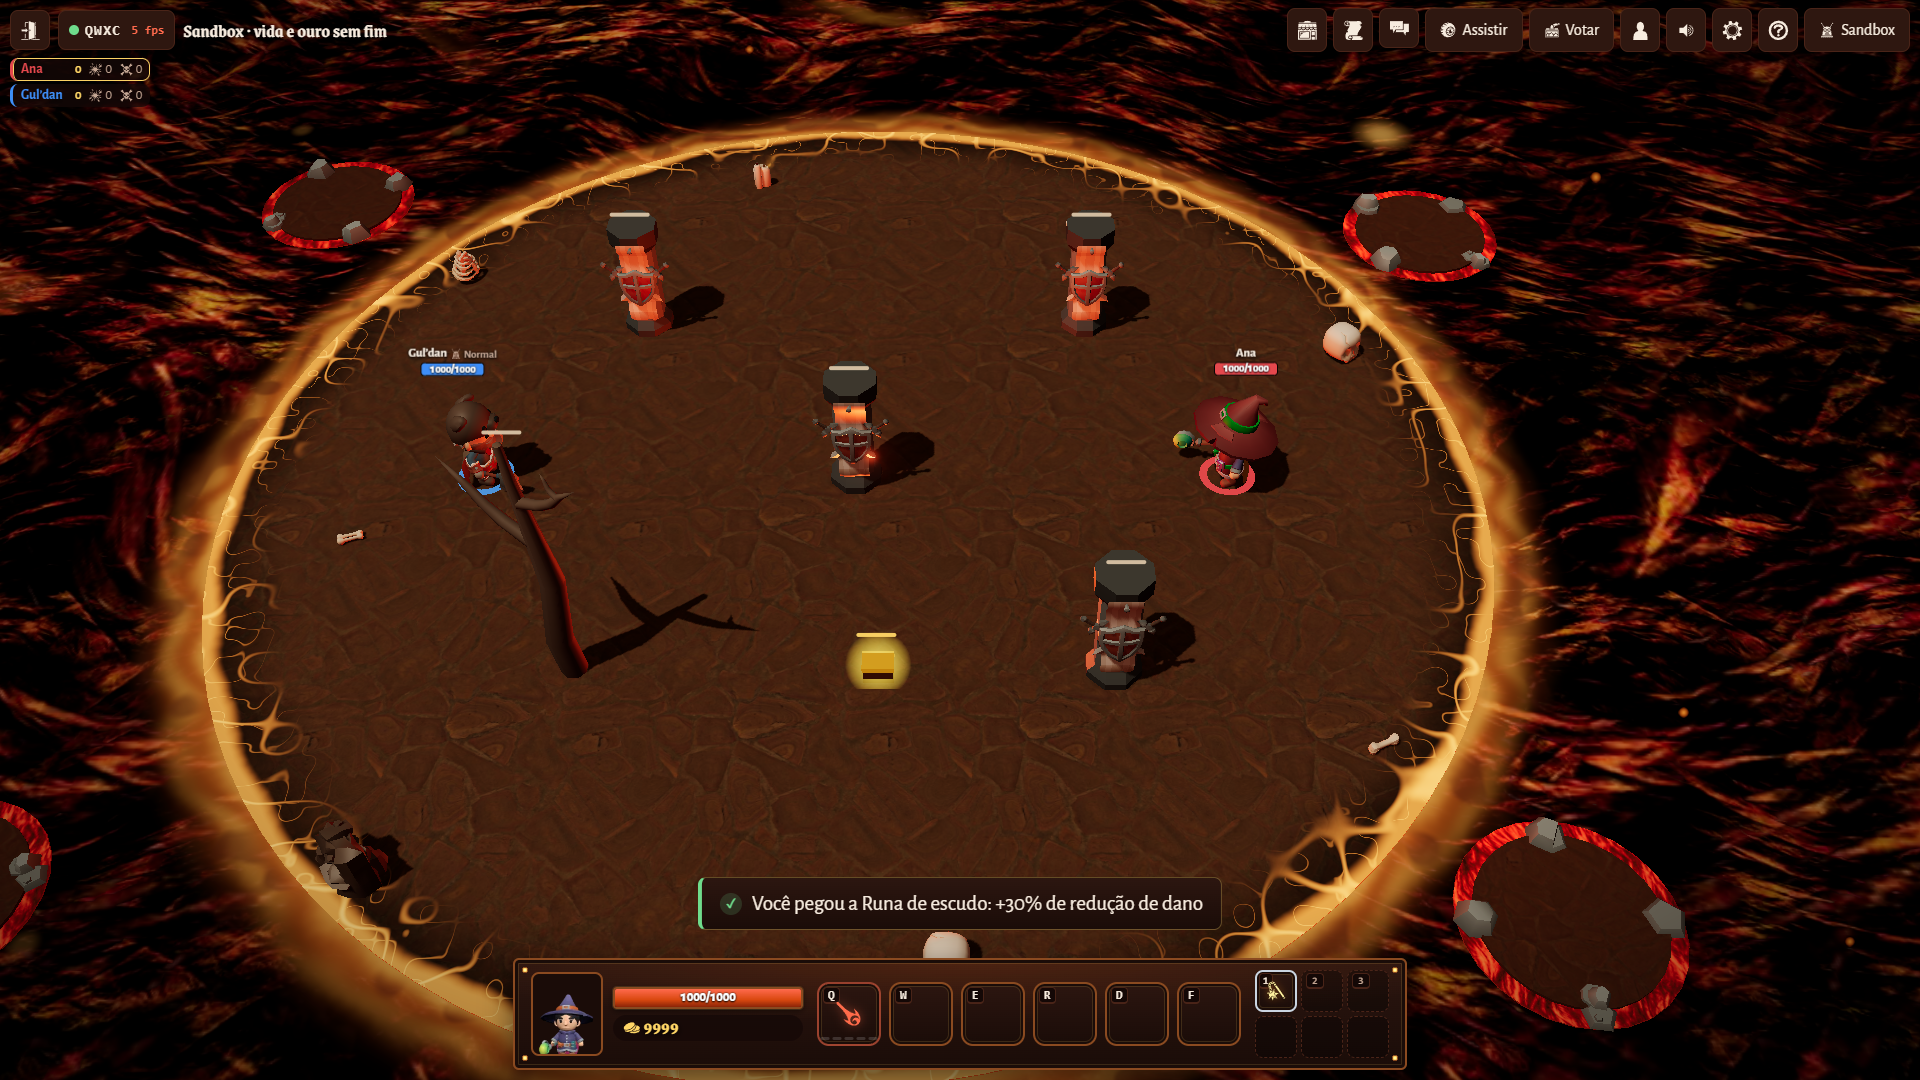
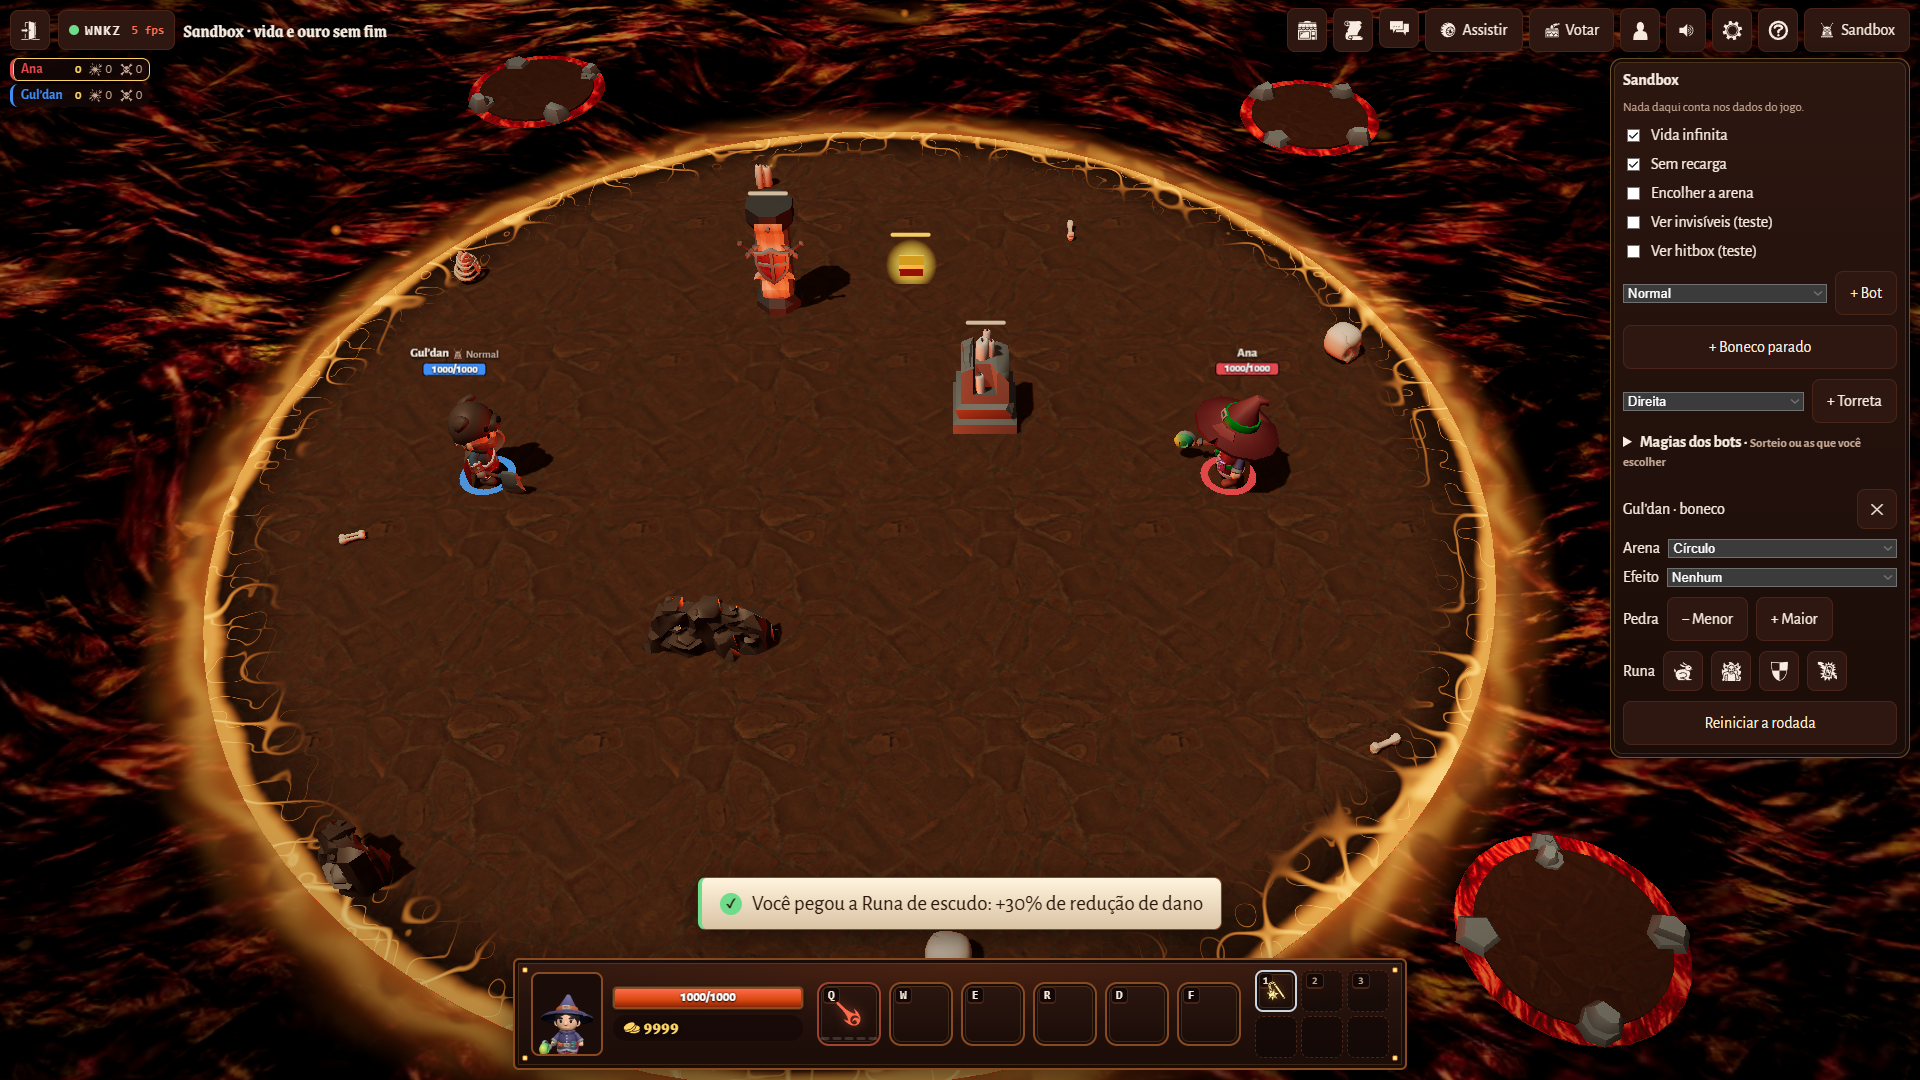
style: avisos em pergaminho claro com ícone em disco cheio da cor do tipo

diff --git a/src/client/style.css b/src/client/style.css
@@ -17,6 +17,8 @@
   --text-shadow: 0 2px 6px var(--ink);
   /* metal envelhecido: gradiente sutil e borda dupla dourada fina */
   --plate: linear-gradient(180deg, var(--panel-top), var(--panel-bot));
+  /* pergaminho claro dos avisos: destaca por cima da lava e da pedra escura, que têm o mesmo tom do --plate */
+  --paper: linear-gradient(180deg, var(--cream), var(--stone));
   --plate-edge: inset 0 0 0 3px var(--panel-bot), inset 0 0 0 4px var(--gold-faint);
   /* moldura de jogo dos painéis: rebite dourado nos 4 cantos e brilho de lava atrás do título (camadas por cima do --plate) */
   --r-frame: 6px;
@@ -264,8 +266,8 @@ button.kick:hover { background: rgba(255, 106, 77, .15); }
 .wiz-label .hp-extra .rune { color: #93c5fd; }
 .wiz-label .hp-extra .rush { color: #ff9640; }
 
-/* letra 1,3x do tamanho normal, a mesma do aviso de quem saiu (PR #234): o aviso aparece por poucos segundos no meio da partida e precisa ser lido de relance */
-#toast { position: fixed; left: 50%; bottom: calc(150px + var(--safe-b)); transform: translateX(-50%); background: var(--plate); border: 1px solid var(--gold-line); padding: 13px 18px; border-radius: var(--r-sm); font-size: 1.3rem; opacity: 0; transition: opacity .2s; pointer-events: none; max-width: calc(100% - 32px); overflow-wrap: anywhere; z-index: 20; user-select: text; }
+/* letra 1,3x do tamanho normal, a mesma do aviso de quem saiu (PR #234), e fundo claro: o aviso aparece por poucos segundos no meio da partida e precisa ser lido de relance */
+#toast { position: fixed; left: 50%; bottom: calc(150px + var(--safe-b)); transform: translateX(-50%); background: var(--paper); color: var(--cream-ink); border: 1px solid var(--bronze); box-shadow: var(--shadow-md); padding: 13px 18px; border-radius: var(--r-sm); font-size: 1.3rem; opacity: 0; transition: opacity .2s; pointer-events: none; max-width: calc(100% - 32px); overflow-wrap: anywhere; z-index: 20; user-select: text; }
 #toast.show { opacity: 1; pointer-events: auto; }
 /* com uma loja aberta o clique atravessa o aviso: ele fica por cima da última fileira de cartas e tapava a compra (issue #208) */
 body:has(.center .shop, .peek-shop:not([hidden]) .shop) #toast { pointer-events: none; }
@@ -590,16 +592,17 @@ button.primary:not(:disabled):active, .button:active { transform: translateY(2px
 button.primary.urgent:not(:disabled) { animation: urgent .45s ease-in-out infinite alternate; }
 @keyframes urgent { from { box-shadow: 0 0 0 0 rgba(255, 106, 77, 0); } to { box-shadow: 0 0 0 3px var(--red), 0 0 22px rgba(255, 106, 77, .7); } }
 /* avisos com ícone e cor por tipo; sobem um pouco ao aparecer */
-#toast { display: flex; align-items: center; gap: 10px; border-left: 4px solid var(--gold-line); transform: translate(-50%, 8px); transition: opacity .2s, transform .2s; }
+#toast { display: flex; align-items: center; gap: 10px; border-left: 4px solid var(--bronze); transform: translate(-50%, 8px); transition: opacity .2s, transform .2s; }
 #toast.show { transform: translateX(-50%); }
-#toast::before { flex: none; width: 22px; height: 22px; border-radius: 50%; display: grid; place-items: center; font-size: .8rem; font-weight: 800; content: 'i'; background: var(--gold-faint); color: var(--gold); }
+#toast::before { flex: none; width: 22px; height: 22px; border-radius: 50%; display: grid; place-items: center; font-size: .8rem; font-weight: 800; content: 'i'; background: var(--bronze); color: var(--cream); }
+/* no fundo claro o ícone é um disco cheio da cor do tipo com o símbolo escuro: a cor clara sobre o pergaminho sumia */
 #toast[data-kind="good"] { border-left-color: var(--ok); }
-#toast[data-kind="good"]::before { content: '✓'; background: rgba(111, 220, 140, .16); color: var(--ok); }
+#toast[data-kind="good"]::before { content: '✓'; background: var(--ok); color: var(--cream-ink); }
 #toast[data-kind="bad"] { border-left-color: var(--red); }
-#toast[data-kind="bad"]::before { content: '!'; background: rgba(255, 106, 77, .18); color: var(--red); }
+#toast[data-kind="bad"]::before { content: '!'; background: var(--red); color: var(--cream-ink); }
 #toast[data-kind="gold"] { border-left-color: var(--gold); }
 #toast[data-kind="gold"]::before { content: none; }
-#toast[data-kind="gold"] > .gi { flex: none; font-size: 1.3rem; color: var(--gold); }
+#toast[data-kind="gold"] > .gi { flex: none; font-size: 1.3rem; color: var(--bronze); }
 /* golpe crítico: número claro com brilho de brasa */
 .dmg.crit { color: var(--gold-pale); -webkit-text-stroke: 1px var(--lava-dark); text-shadow: 0 0 12px rgba(255, 170, 40, .9), var(--text-shadow); }
 /* VITÓRIA: dourado em degradê, maior, com confete saindo do centro */
